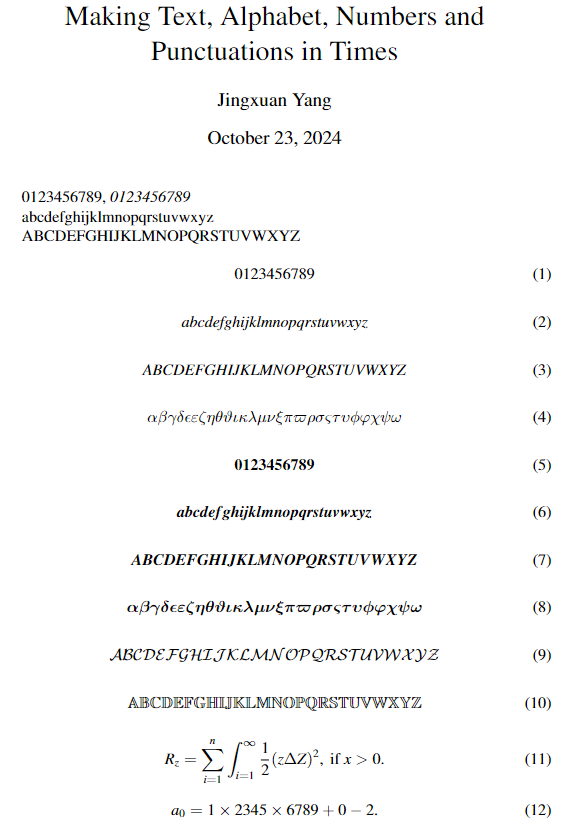
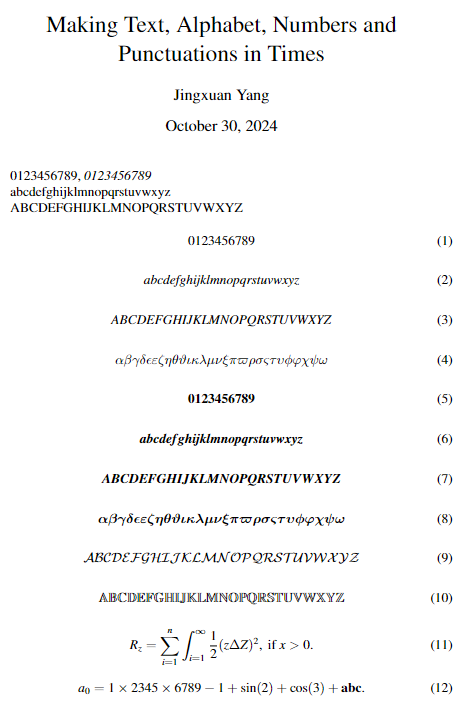
Add files via upload

diff --git a/main.tex b/main.tex
@@ -67,7 +67,7 @@ R_{z} =\sum_{i=1}^n\int_{i=1}^\infty \frac12 (z \Delta Z)^2,~\text{if}~x>0.
 \end{equation}
 
 \begin{equation}
-  a_0=1\times2345\times6789+0-2.
+  a_0=1\times2345\times6789-1+\sin(2)+\mathrm{cos}(3)+\mathbf{abc}.
 \end{equation}
 
 \end{document}
